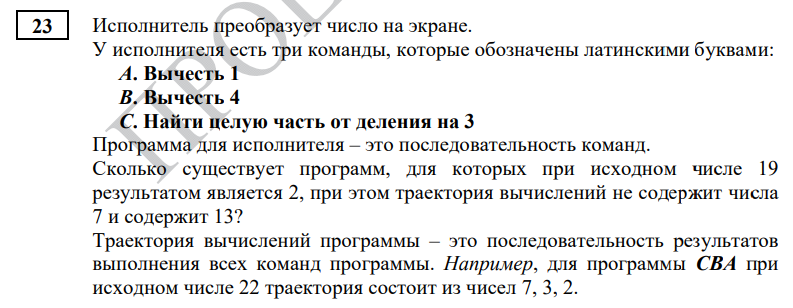
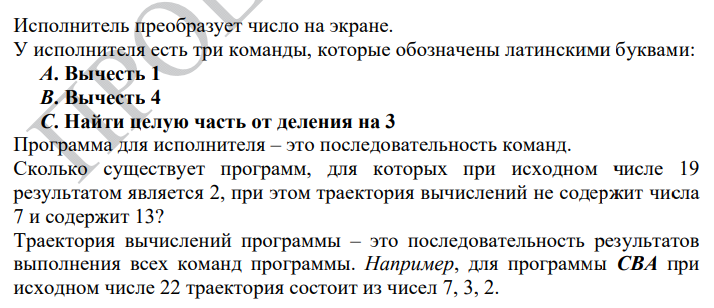
rework t13

Changed region(s): [[0.0, 0.0, 0.986, 0.7305], [0.0, 0.7597, 0.986, 0.9935]]

diff --git a/README.md b/README.md
@@ -1161,7 +1161,142 @@ $N \leq 2^{i_{\text{min}}}$,
 ## На что обратить внимание
 Вдуматься в формулировку, что 1 символ кодируется минимально возможным числом **бит**, а один серийный номер минимально возможным числом **байт**. Т.е. при расчетах важно вовремя переводить в нужные единицы измерения (в отличие от той же 7ой задачи, где можно было сразу посчитать итоговый ответ в битах и уже потом перевести в нужные по условию единицы измерения). При этом, когда мы округляем байты (т.е. сколько занимает один серийный номер), следует внимательно прочитать условие - если там написано, что все серийные номера занимают **более/не менее**, чем ... - значит округляем в большую сторону, если **не более/менее**, чем - в меньшую.
 
+# <a id="task13">Задача 13</a>
+Одна из простейших задач всего экзамена. Решается максимально шаблонным кодом.
 
+## Решим задание из демоверсии 2026 года
+
+![Задача из демоверсии 2026](./assets/img/13/1.png "Задача из демоверсии 2026")
+
+Рассмотрим базовый шаблон для решения задачи
+
+```python
+def f(a, b):
+    if a == b: return 1
+    if a < b or a == 7: return 0
+    return f(a - 1, b) + f(a - 4, b) + f(a // 3, b)
+print(f(19, 13) * f(13, 2))
+```
+### Объяснение
+В базом варианте у исполнителя будет набор команд, которые все либо увеличивают число, либо уменьшают. При этом возможно дополнительное условие, например, что траектория вычислений должна содержать и/или не содержать какие-то вершины. Задача решается рекурсивной функцией, где условие выхода из рекурсии у нас наступает тогда, когда мы приходим в нужное число (a == b). 
+
+Условие при котором мы возвращаем 0 зависит от того увеличиваем мы исходное число или уменьшаем. Если увеличиваем, то будем возвращать 0 в случае, если a > b, если уменьшаем, то будем возвращать 0 в случае, если a < b.
+
+Если программа обязательно должна содержать определенное число, тогда можем перемножить число программ из исходного числа в промежуточное, и из промежуточного в конечное.
+
+## Рассмотрим более сложные прототипы задач 
+
+### Задача 1 (Демоверсия 2027). Усложнение второй команды
+
+![Задача из демоверсии 2027](./assets/img/13/2.png "Задача из демоверсии 2027")
+
+Рассмотрим вариант, когда вторая команда не является простой арифметической операцией.
+
+```python
+def f(a, b):
+    if a == b: return 1
+    if a > b: return 0
+    s = str(a)
+    if s[1] < s[2]:
+        s = s[0] + s[2] + s[1]
+        return f(a + 1, b) + f(int(s), b)
+    return f(a + 1, b)
+
+print(f(100, 141))
+```
+### Задача 2. Несколько вершин
+
+![Задача 2](./assets/img/13/3.png "Задача 2")
+
+Если в условии сказано, что программа должна проходить более чем через одно число, мы уже не можем пользоваться правилом перемножения путей, как в базом варианте. Для решения введем третий параметр (k) для подсчета путей, проходящих через нужные числа.
+
+```python
+def f(a, b, k):
+    if a == 15 or a == 26: k += 1
+    if a == b: return k > 0
+    if a > b or a == 20 or a == 33: return 0
+    return f(a + 3, b, k) + f(a + 4, b, k) + f(a * 2, b, k)
+
+print(f(3, 63, 0))
+```
+
+### Задача 3. Ограничение на порядок команд
+
+![Задача 3](./assets/img/13/4.png "Задача 3")
+
+Введем дополнительный параметр (p), в который будем записывать номер команды (пронумеруем от 1 до 3).
+
+```python
+def f(a, b, p):
+    if a == b: return 1
+    if a > b: return 0
+    if p == '1':
+        return f(a + 1, b, '1') + f(a + 2, b, '2')
+    return f(a + 1, b, '1') + f(a + 2, b, '2') + f(a * 2, b, '3')
+
+print(f(1, 11, ''))
+```
+
+### Задача 4. Разносторонние команды
+
+![Задача 4](./assets/img/13/5.png "Задача 4")
+
+Иногда может встретиться такая ситуация, когда часть команд число увеличивают, а часть уменьшают. Особенность решения состоит в том, что мы не можем отсекать неверные пути с помощью сравнения a > b (или a < b), мы всегда должны брать некий запас, так как при таких командах мы можем получить как из большего числа меньшее, так и наоборот (из меньшего большее). 
+
+Число можно выбрать эмпирически не очень большее (например, 10), либо посмотреть на условие, из которого можно высчитать, что a может быть больше b только на 1 (из-за невозможности использования двух команд вычитания на единицу подряд).
+
+```python
+def f(a, b, p):
+    if a == b: return 1
+    if a > b + 1: return 0
+    if p == 'a':
+        return f(a * 2, b, 'b') + f(a * 3, b, 'c')
+    return f(a - 1, b, 'a') + f(a * 2, b, 'b') + f(a * 3, b, 'c')
+
+print(f(3, 15, ''))
+
+```
+
+### Задача 5. Сохраняем всю цепочку команд
+
+![Задача 5](./assets/img/13/6.png "Задача 5")
+
+Иногда в задачах бывает полезно хранить не одну команду, а всю цепочку вызовов функции, введя дополнительный параметр (p). Минус такого подхода - если количество рекурсивных вызовов будет большим (например, если начальное и конечное числа находятся далеко друг от друга), мы получим 
+очень длинную строку, в которой поиск будет работать очень медленно, и программа будет выполняться слишком долго.
+
+```python
+def f(a, b, p):
+    if a == b and p.count('a') > 0 and p.count('b') > 0 and p.count('c') > 0: return 1
+    if a > b: return 0
+    return f(a + 1, b, p + 'a') + f(a + 2, b, p + 'b') + f(a * 2, b, p + 'c')
+
+print(f(3, 25, ''))
+```
+
+### Задача 6. Результаты команд. Отсутствие финального числа.
+
+![Задача 6](./assets/img/13/7.png "Задача 6")
+
+Если в задаче требуется посчитать не количество команд, а их результаты, используем решение ниже. Декоратор @cache используем для ускорения вычислений (путем мемоизации - сохранении уже вычисленных результатов). 
+
+В данном случае будем считать все возможные комбинации команд из исходного числа "a" с помощью параметра k, сравнивать их длину с заданной по условию, сохранять результат в множество s и только тогда завершать (return) функцию.
+
+```python
+from functools import *
+
+@cache
+def f(a, k):
+    if k == 68:
+        s.add(a)
+        return    
+    f(a + 3, k + 1)
+    f(a - 2, k + 1)
+
+s = set()
+f(1, 0)
+
+print(len(s))
+```
 
 # <a id="task14">Задача 14 </a>
 
@@ -2033,22 +2168,6 @@ print([s for s in range(31, 200) if not f(s, 2) and f(s, 4)]) #21 номер
 4. При решении формулами не забываем блокировать столбцы в формуле ВПР с помощью $, иначе формула "поедет".
 5. При решении схемой помним, что мы можем как угодно смещать процессы по времени (если это не противоречит условию задачи), главное, чтобы стрелочка не поворачивалась назад (влево).
 
-# <a id="task23">Задача 23</a>
-Одна из простейших задач всего экзамена. Решается максимально шаблонным кодом.
-
-## Решим задание из демоверсии 2026 года
-
-![Задача из демоверсии 2026](./assets/img/23/1.png "Задача из демоверсии 2026")
-
-Разбор решения появится позже, пока что публикую лишь шаблон кода.
-
-```python
-def f(a, b):
-    if a == b: return 1
-    if a < b or a == 7: return 0
-    return f(a - 1, b) + f(a - 4, b) + f(a // 3, b)
-print(f(19, 13) * f(13, 2))
-```
 # <a id="task24">Задача 24</a>
 
 Задача на строки. Решается кодом. Считается задачей сложной, требующей навыков алгоритмического мышления (как и 26ая), хотя на практике уровень сложности сильно варьируется от конкретного условия.
